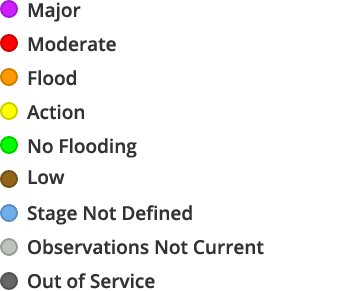
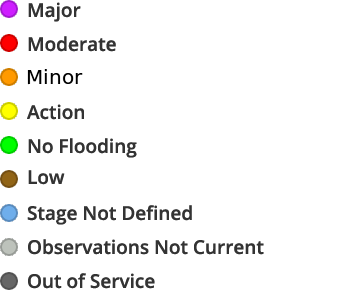
'Flood' Stage is not 'Minor" stage

Changed region(s): [[0.0571, 0.2165, 0.2286, 0.3093]]

diff --git a/src/components/About.jsx b/src/components/About.jsx
@@ -57,7 +57,7 @@ class About extends React.Component {
             The stage levels are predefined by NOAA and represented with this application 
             mirroring their default symbology. The stage levels are defined by the water 
             level for each individual gage relative to their capacity.
-            When a gage reaches the 'Action' stage level, NOAA will algorithmically produce 
+            When a gage reaches the 'Action' stage level or higher, NOAA will algorithmically produce 
             predictive water depths for the gage and provide those depths within the 
             graphical charts. These predicitive levels are updated every 6 hours by NOAA 
             unless a significant event demands more accurate and immediate information. In which 
@@ -99,7 +99,7 @@ class About extends React.Component {
 
             The application provides the ability for users to subscribe to flood
             gages in order to receive alerts when gage readings are staged at potentially
-            dangerous levels. These levels are designated as Action, Flood, Moderate, and Major. <br /> 
+            dangerous levels. These levels are designated as Action, Minor, Moderate, and Major. <br /> 
             Users may subscribe to receive alerts via SMS text message or email. TNRIS maintains a 
             strict privacy policy and will never, under any circumstance, share or disclose 
             a users contact information with any other entities or utilize their contact 
